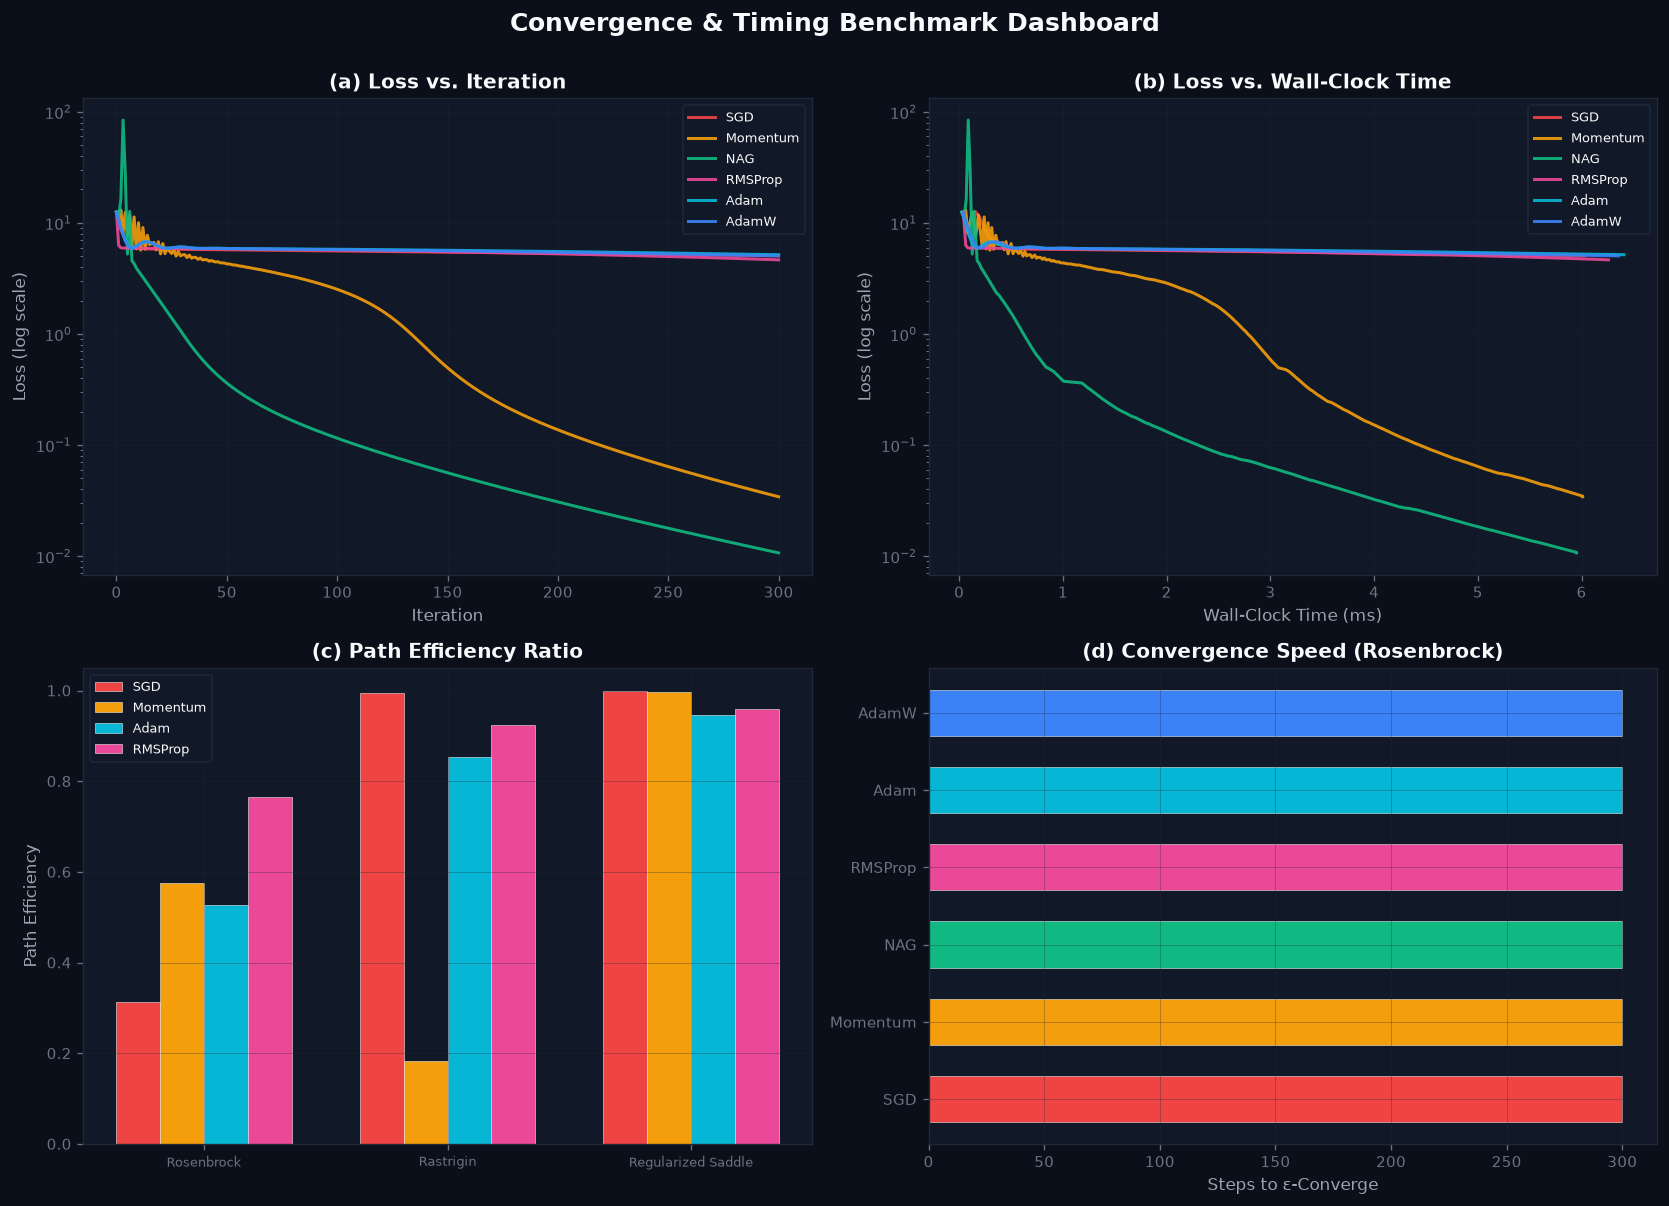
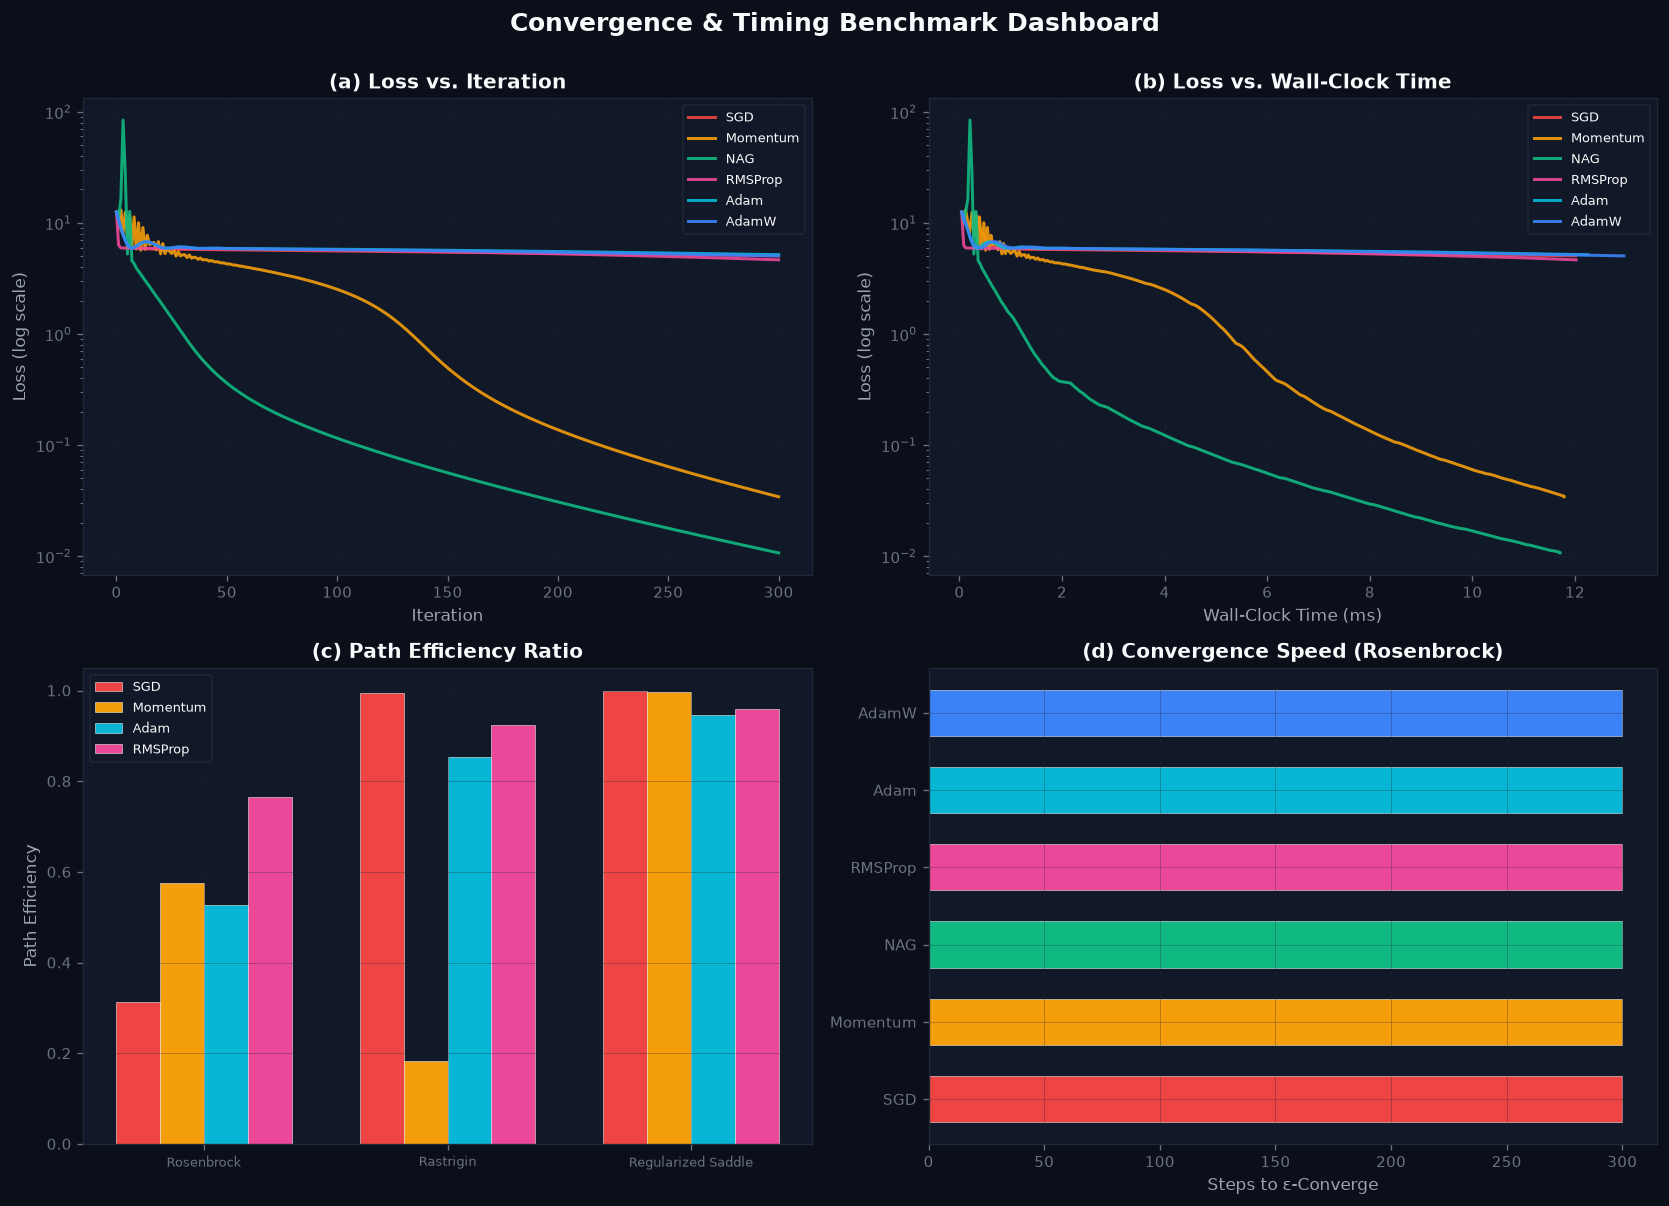
fix(plotly): resolve titlefont deprecation in 3D scene and prevent numerical overflow on steep surfaces

diff --git a/loss_topography/theme.py b/loss_topography/theme.py
@@ -117,13 +117,12 @@ def plotly_3d_scene(title: str = "") -> dict:
         gridcolor=GRID_COLOR,
         showbackground=True,
         tickfont=dict(color=TEXT_TICK, size=9),
-        titlefont=dict(color=TEXT_LABEL, size=11),
     )
     return dict(
         scene=dict(
-            xaxis={**axis_cfg, "title": "θ₁"},
-            yaxis={**axis_cfg, "title": "θ₂"},
-            zaxis={**axis_cfg, "title": "Loss"},
+            xaxis=dict(**axis_cfg, title=dict(text="θ₁", font=dict(color=TEXT_LABEL, size=11))),
+            yaxis=dict(**axis_cfg, title=dict(text="θ₂", font=dict(color=TEXT_LABEL, size=11))),
+            zaxis=dict(**axis_cfg, title=dict(text="Loss", font=dict(color=TEXT_LABEL, size=11))),
             bgcolor=BG_CANVAS,
         ),
     )

diff --git a/loss_topography/optimizers.py b/loss_topography/optimizers.py
@@ -128,9 +128,9 @@ class Optimizer:
                                      grad_fn=lambda xx, yy: surface.grad(np.array(xx), np.array(yy)),
                                      hessian_fn=lambda xx, yy: surface.hessian(xx, yy))
 
-            # Clip to prevent divergence to infinity
-            x_new = np.clip(x_new, -1e6, 1e6)
-            y_new = np.clip(y_new, -1e6, 1e6)
+            # Clip to prevent divergence to infinity while preventing floating-point overflow
+            x_new = np.clip(x_new, -50.0, 50.0)
+            y_new = np.clip(y_new, -50.0, 50.0)
             if not (np.isfinite(x_new) and np.isfinite(y_new)):
                 x_new, y_new = x, y  # stay put if step diverged
 

diff --git a/loss_topography/surfaces.py b/loss_topography/surfaces.py
@@ -123,11 +123,15 @@ class Rosenbrock(Surface):
         )
 
     def f(self, x, y):
-        return (self.a - x) ** 2 + self.b * (y - x ** 2) ** 2
+        x_c = np.clip(x, -100.0, 100.0)
+        y_c = np.clip(y, -100.0, 100.0)
+        return (self.a - x_c) ** 2 + self.b * (y_c - x_c ** 2) ** 2
 
     def grad(self, x, y):
-        dx = -2 * (self.a - x) - 4 * self.b * x * (y - x ** 2)
-        dy = 2 * self.b * (y - x ** 2)
+        x_c = np.clip(x, -100.0, 100.0)
+        y_c = np.clip(y, -100.0, 100.0)
+        dx = -2 * (self.a - x_c) - 4 * self.b * x_c * (y_c - x_c ** 2)
+        dy = 2 * self.b * (y_c - x_c ** 2)
         return dx, dy
 
     def hessian(self, x, y):
